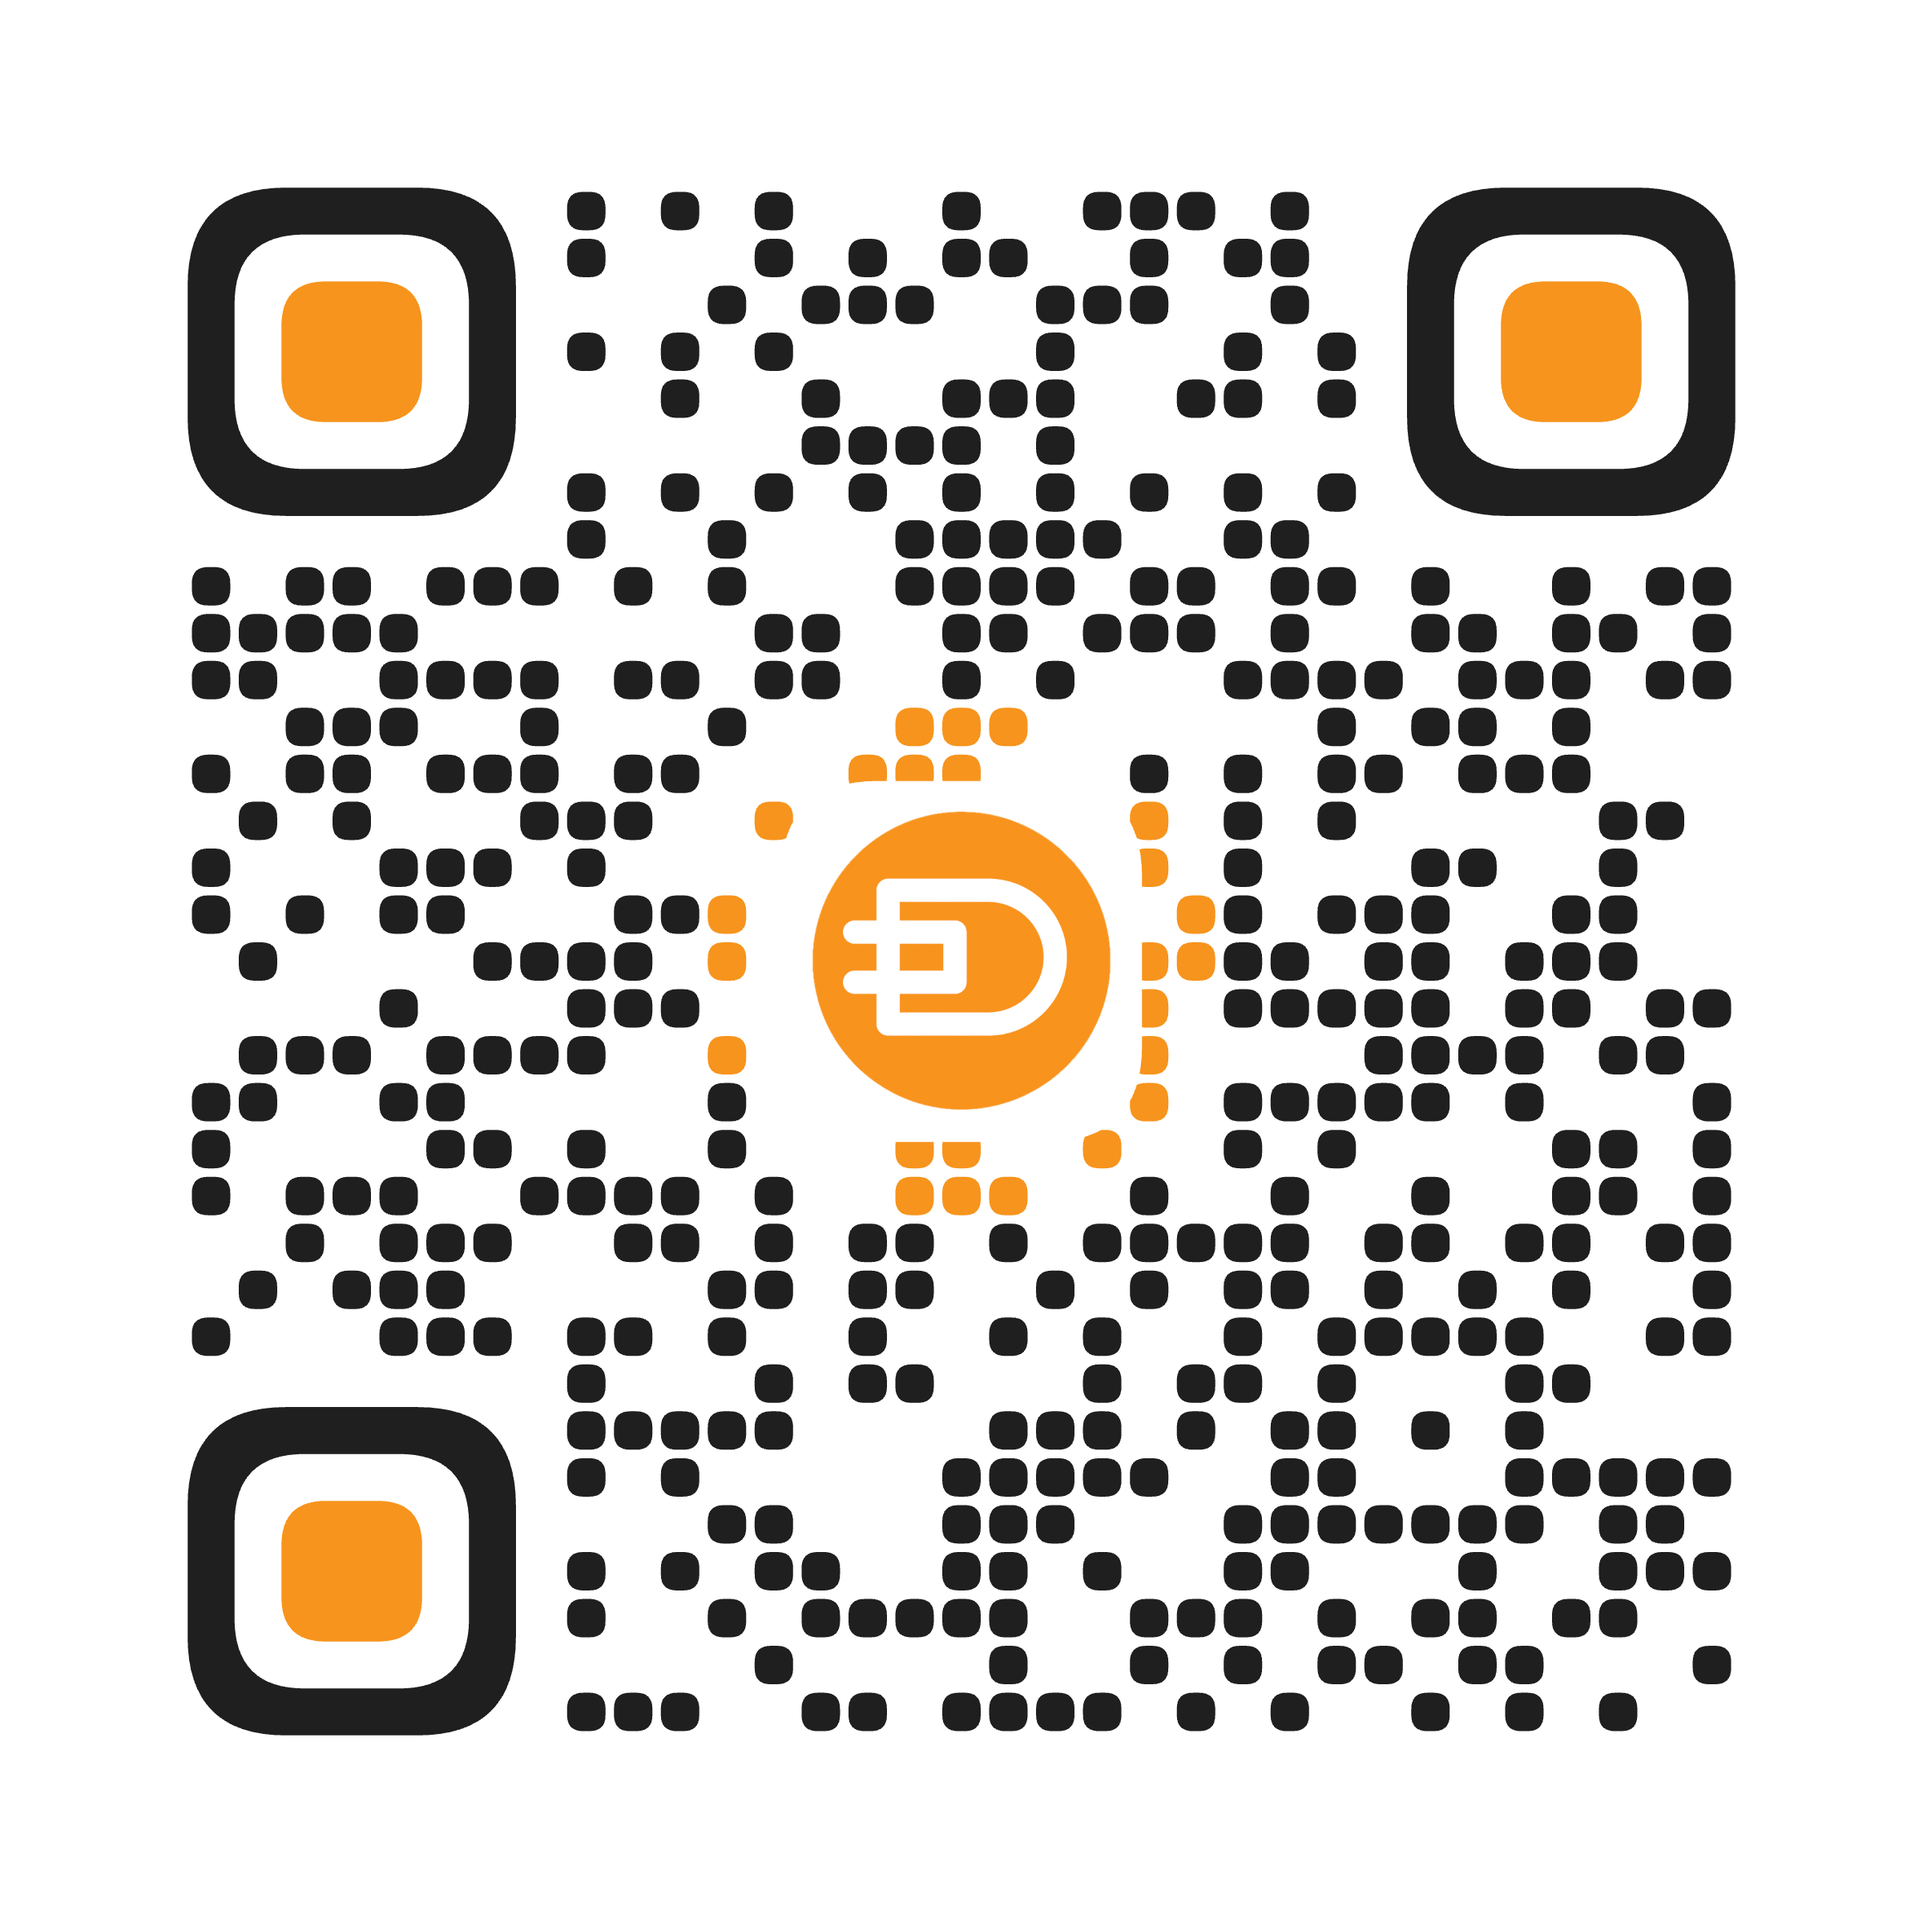
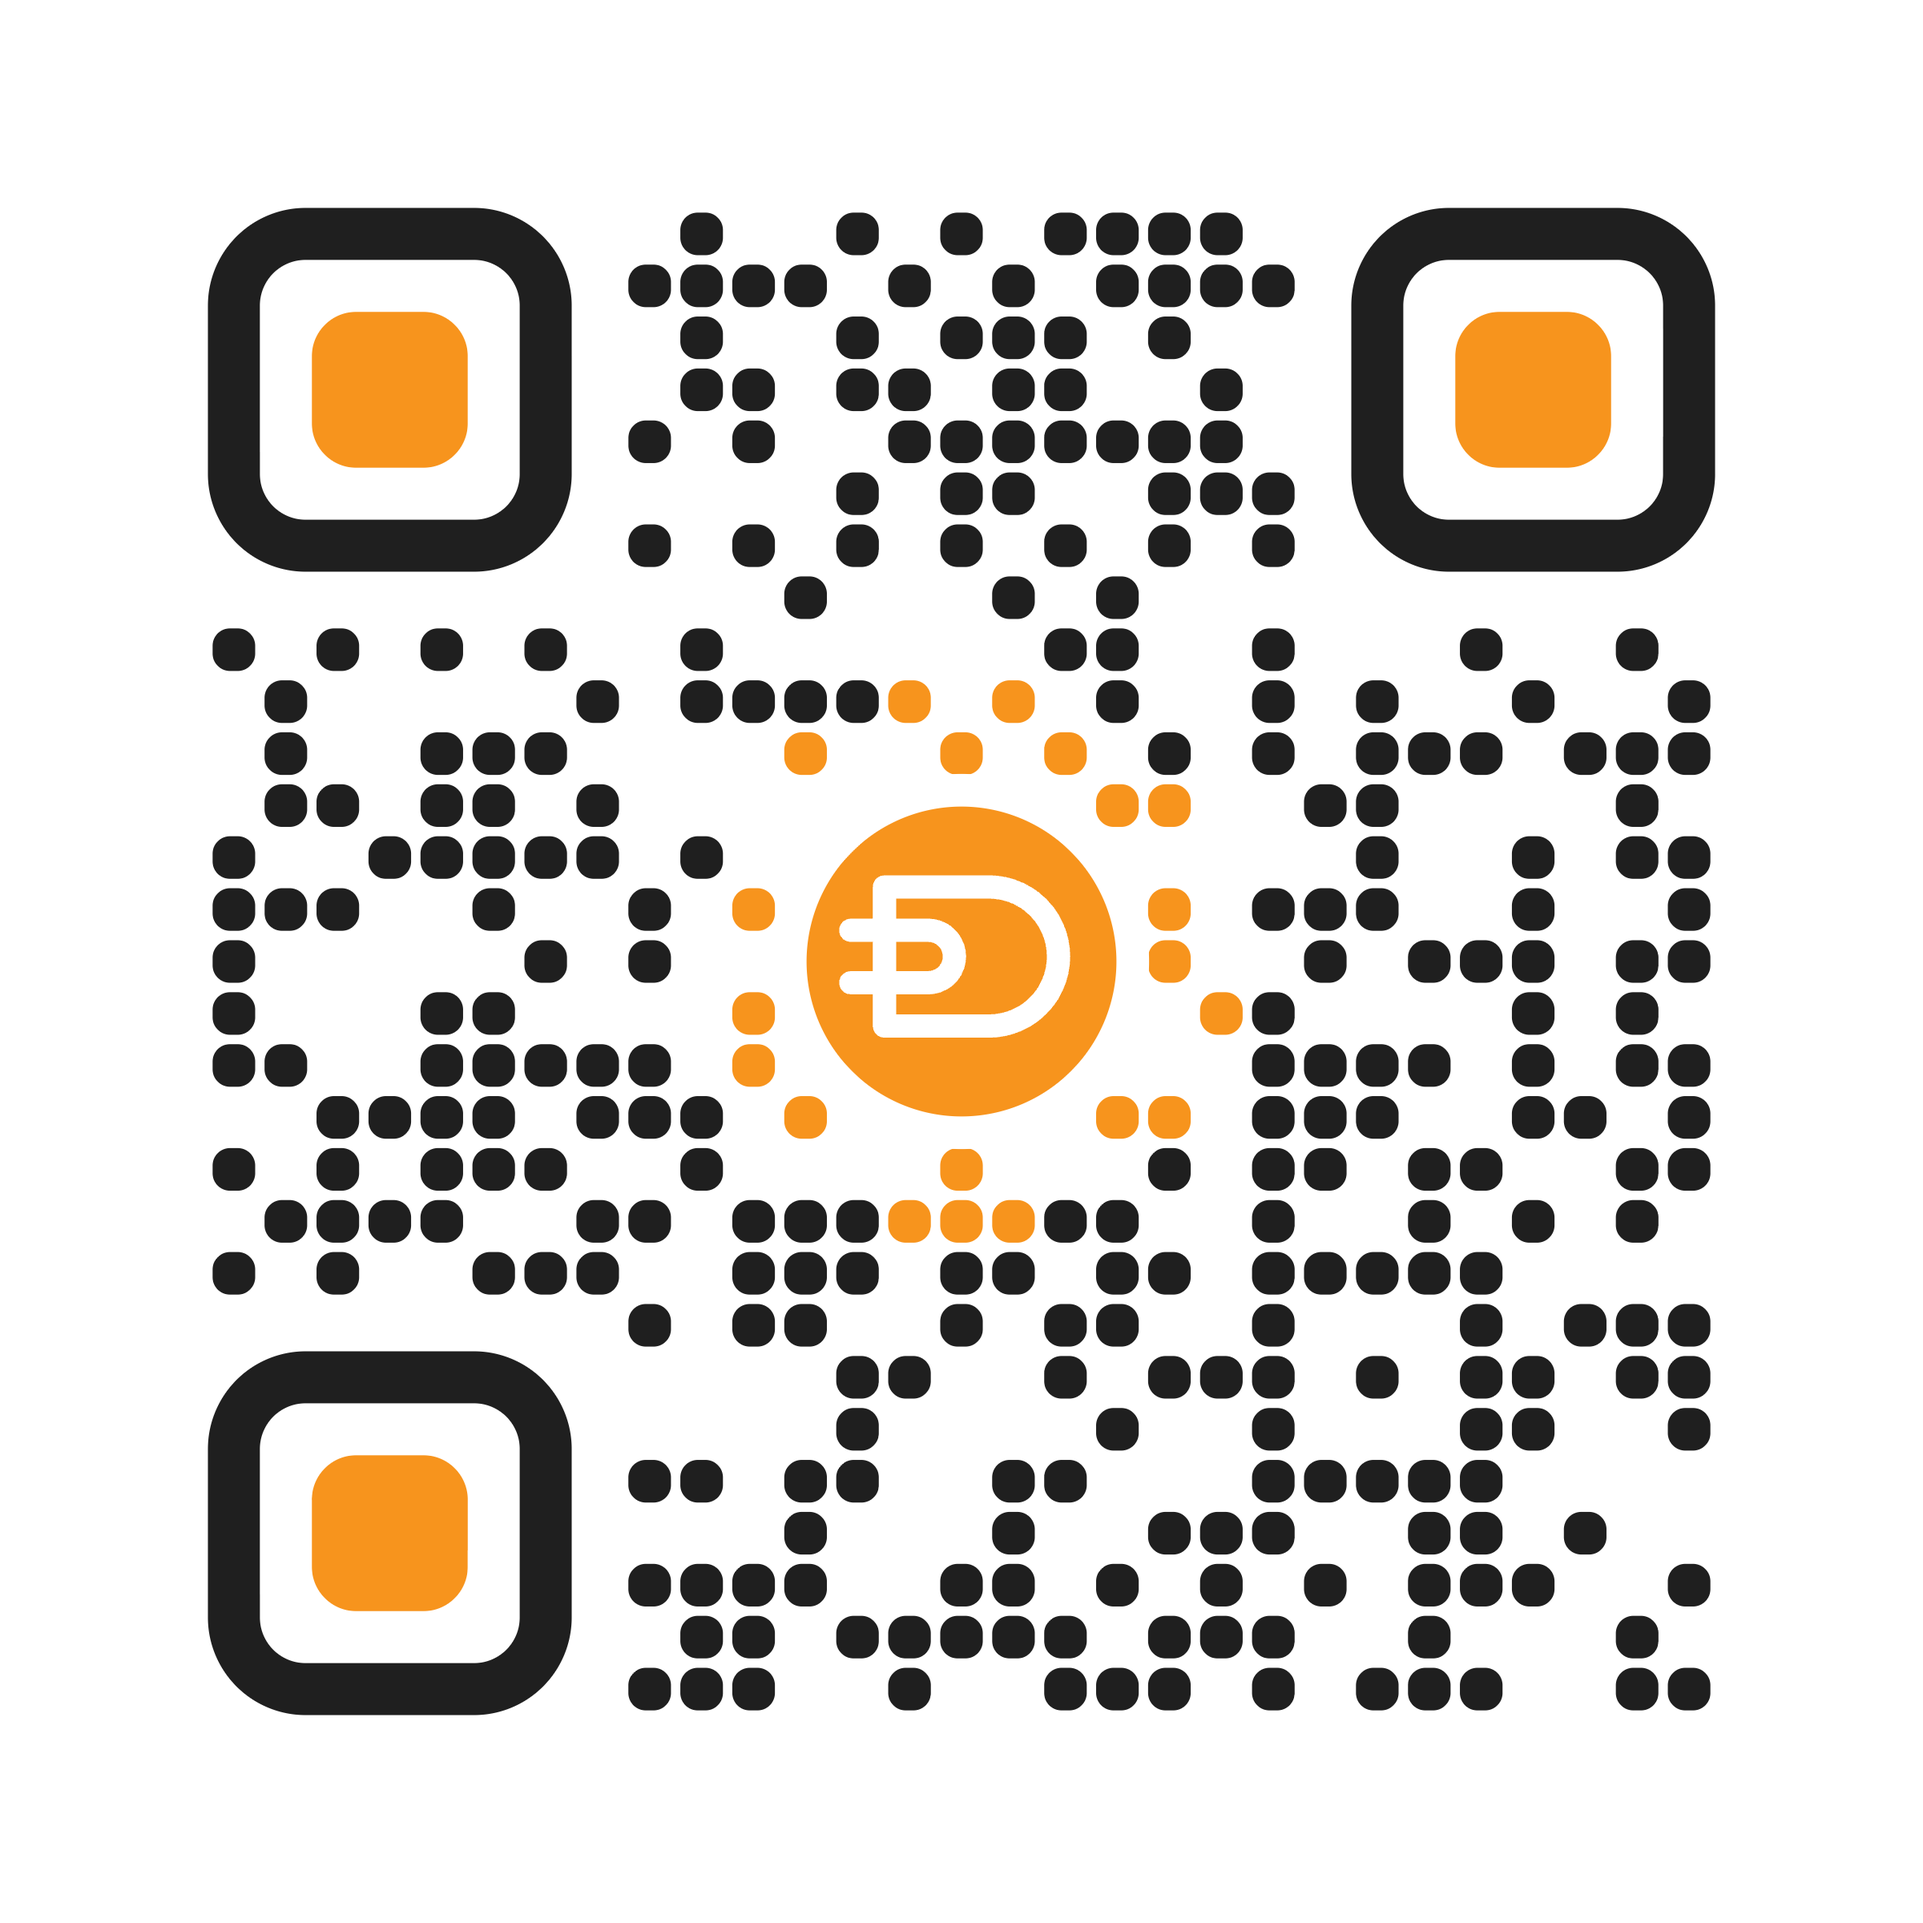
Replace launch hub QR art and repoint hero
Swap in the updated stylized Dauer QR and logo+QR lockup. The hero QR
now uses dauer-stylized-qr.png; mor-qr-038.svg is retired and had no
other references.

Also stop tracking three .DS_Store files that predate the .gitignore
rule covering them.

Changed region(s): [[0.0938, 0.0938, 0.9062, 0.9062]]

diff --git a/launch-hub.html b/launch-hub.html
@@ -1136,7 +1136,7 @@
         </div>
         <aside class="qr-card reveal-on-scroll" aria-label="Launch hub QR code">
           <div class="qr-frame">
-            <img class="hero-qr-img" src="morpheus/assets/img/launch-hub/mor-qr-038.svg"
+            <img class="hero-qr-img" src="morpheus/assets/img/launch-hub/dauer-stylized-qr.png"
               alt="QR code for this launch hub">
           </div>
           <p class="qr-caption">Scan this.<span> Analytics tracking for each scan. We will come back to this in about fifteen minutes.</span></p>
